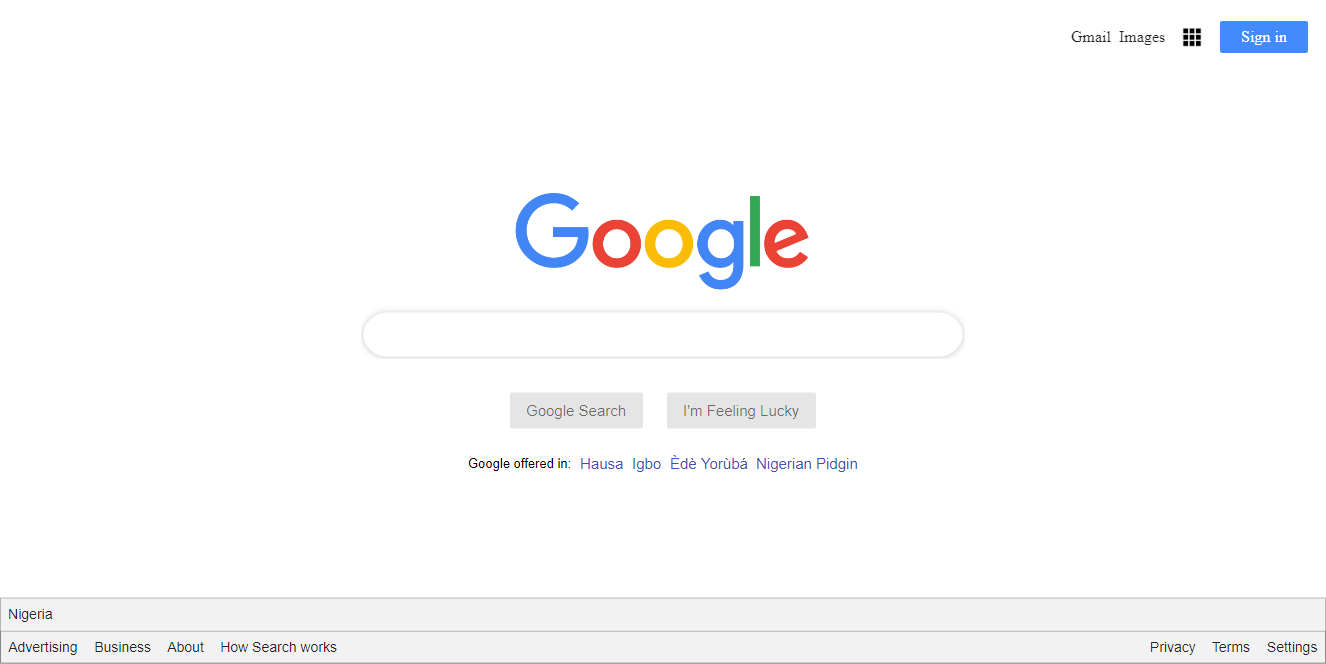
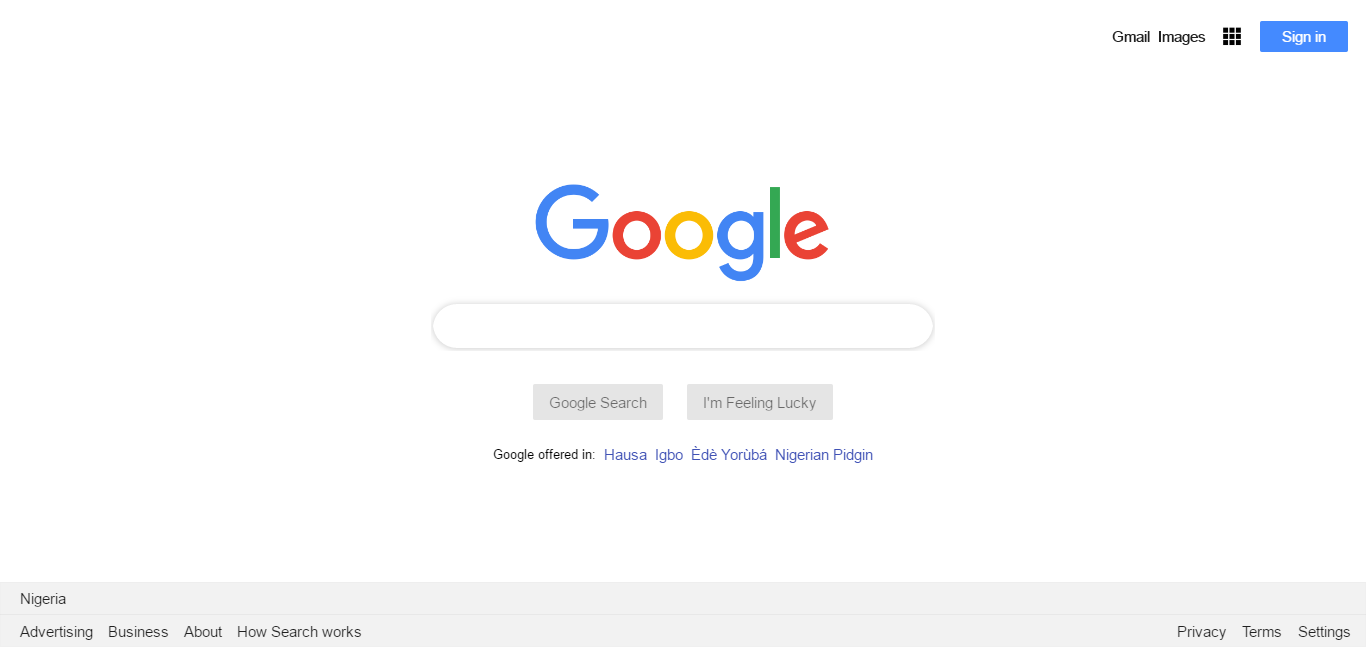
Merge branch 'master' of D:\second_website with conflicts.

diff --git a/lib/googleSearch.dart b/lib/googleSearch.dart
@@ -20,7 +20,7 @@ class GoogleSearch extends StatelessWidget {
             ),
             Flexible(
               child: Container(
-                width: 600,
+                width: 500,
                 decoration: BoxDecoration(
                   color: Colors.white,
                   borderRadius: BorderRadius.circular(24.0),
@@ -33,14 +33,17 @@ class GoogleSearch extends StatelessWidget {
                     )
                   ],
                 ),
-                child: TextField(
-                  cursorColor: Theme.of(context).primaryColor,
-                  decoration: InputDecoration(
-                    border: InputBorder.none,
-                    contentPadding: const EdgeInsets.symmetric(
-                        horizontal: 12.0, vertical: 13.0),
+                child: Padding(
+                  padding: const EdgeInsets.only(left: 8.0),
+                  child: TextField(
+                    cursorColor: Theme.of(context).primaryColor,
+                    decoration: InputDecoration(
+                      border: InputBorder.none,
+                      contentPadding: const EdgeInsets.symmetric(
+                          horizontal: 12.0, vertical: 13.0),
+                    ),
+                    maxLines: 1,
                   ),
-                  maxLines: 1,
                 ),
               ),
             ),
@@ -57,12 +60,12 @@ class GoogleSearch extends StatelessWidget {
                     elevation: 0.0,
                     color: Colors.black38.withOpacity(0.1),
                     onPressed: () {},
-                    child: new Text(
+                    child: Text(
                       "Google Search",
-                      style: new TextStyle(
+                      style: TextStyle(
                           fontSize: 15.0,
                           color: Colors.black54,
-                          fontFamily: 'Roboto-Light.ttf'),
+                          fontFamily: 'arial'),
                     ),
                   ),
                 ),
@@ -72,13 +75,13 @@ class GoogleSearch extends StatelessWidget {
                     elevation: 0.0,
                     color: Colors.black26.withOpacity(0.1),
                     onPressed: () {},
-                    child: new Text(
+                    child: Text(
                       "I'm Feeling Lucky",
-                      style: new TextStyle(
+                      style: TextStyle(
                           fontWeight: FontWeight.w200,
                           fontSize: 15.0,
                           color: Colors.black54,
-                          fontFamily: 'Roboto-Light.ttf'),
+                          fontFamily: 'arial'),
                     ),
                   ),
                 )
@@ -91,18 +94,18 @@ class GoogleSearch extends StatelessWidget {
                 Padding(
                   padding: const EdgeInsets.only(top: 20.0),
                   child: Text("Google offered in:",
-                      style: new TextStyle(
+                      style: TextStyle(
                           color: Colors.black,
                           fontSize: 13.0,
-                          fontFamily: 'Roboto-Light.ttf')),
+                          fontFamily: 'arial')),
                 ),
                 Padding(
                   padding: const EdgeInsets.only(left: 8.0, top: 20.0),
                   child: Text("Hausa",
-                      style: new TextStyle(
+                      style: TextStyle(
                           color: Colors.indigo,
                           fontSize: 15.0,
-                          fontFamily: 'Roboto-Light.ttf')),
+                          fontFamily: 'arial')),
                 ),
                 Padding(
                   padding: const EdgeInsets.only(
@@ -110,27 +113,27 @@ class GoogleSearch extends StatelessWidget {
                     top: 20.0,
                   ),
                   child: Text("Igbo",
-                      style: new TextStyle(
+                      style: TextStyle(
                           color: Colors.indigo,
                           fontSize: 15.0,
-                          fontFamily: 'Roboto-Light.ttf')),
+                          fontFamily: 'arial')),
                 ),
                 Padding(
                   padding: const EdgeInsets.only(left: 8.0, top: 20.0),
                   child: Text("Èdè Yorùbá",
-                      style: new TextStyle(
+                      style: TextStyle(
                           color: Colors.indigo,
                           fontSize: 15.0,
-                          fontFamily: 'Roboto-Light.ttf')),
+                          fontFamily: 'arial')),
                 ),
                 Padding(
                   padding: const EdgeInsets.only(left: 8.0, top: 20.0),
                   child: Text(
                     "Nigerian Pidgin",
-                    style: new TextStyle(
+                    style: TextStyle(
                         color: Colors.indigo,
                         fontSize: 15.0,
-                        fontFamily: 'Roboto-Light.ttf'),
+                        fontFamily: 'arial'),
                   ),
                 ),
               ],

diff --git a/lib/footerOptions.dart b/lib/footerOptions.dart
@@ -1,8 +1,4 @@
 import 'package:flutter_web/material.dart';
-import 'package:second_website/widgets/option-name.dart';
-import 'package:second_website/widgets/text.dart';
-
-import 'helpers/constants.dart';
 
 class FooterOptions extends StatelessWidget {
   @override
@@ -16,30 +12,86 @@ class FooterOptions extends StatelessWidget {
         mainAxisAlignment: MainAxisAlignment.start,
         children: [
           Flexible(
-            child: Row(
-              mainAxisAlignment: MainAxisAlignment.start,
-              children: [
-                GoogleText(optionName: footerCountryText),
-                const Spacer(),
-              ],
-            ),
-          ),
-          Flexible(
             child: Container(
-              decoration: BoxDecoration(
-                border: Border.all(color: Colors.black26, width: 0.1),
-              ),
               child: Row(
                 mainAxisAlignment: MainAxisAlignment.start,
                 children: [
-                  for (var option in googleFooterOptions)
-                    OptionWidget(
-                      optionName: option,
-                      actionOnClick: (option) async {
-                        print('Woohoo $option');
-                      },
+                  Padding(
+                    padding: const EdgeInsets.only(
+                      left: 20.0,
+                      top: 8,
                     ),
-                ]..insert(4, const Spacer()),
+                    child: Text(
+                      'Nigeria',
+                      style: TextStyle(fontSize: 15, fontFamily: 'arial'),
+                    ),
+                  ),
+                ],
+              ),
+            ),
+          ),
+          Divider(
+            color: Colors.black.withOpacity(0.1),
+          ),
+          Flexible(
+            child: Padding(
+              padding: const EdgeInsets.only(
+                left: 20.0,
+              ),
+              child: Container(
+                child: Row(
+                  mainAxisAlignment: MainAxisAlignment.start,
+                  children: [
+                    Container(
+                      child: Text(
+                        'Advertising',
+                        style: TextStyle(fontSize: 15, fontFamily: 'arial'),
+                      ),
+                    ),
+                    Container(
+                      margin: EdgeInsets.only(left: 15),
+                      child: Text(
+                        'Business',
+                        style: TextStyle(fontSize: 15, fontFamily: 'arial'),
+                      ),
+                    ),
+                    Container(
+                      margin: EdgeInsets.only(left: 15),
+                      child: Text(
+                        'About',
+                        style: TextStyle(fontSize: 15, fontFamily: 'arial'),
+                      ),
+                    ),
+                    Container(
+                      margin: EdgeInsets.only(left: 15),
+                      child: Text(
+                        'How Search works',
+                        style: TextStyle(fontSize: 15, fontFamily: 'arial'),
+                      ),
+                    ),
+                    Container(
+                      margin: EdgeInsets.only(left: 15),
+                      child: Text(
+                        'Privacy',
+                        style: TextStyle(fontSize: 15, fontFamily: 'arial'),
+                      ),
+                    ),
+                    Container(
+                      margin: EdgeInsets.only(left: 15),
+                      child: Text(
+                        'Terms',
+                        style: TextStyle(fontSize: 15, fontFamily: 'arial'),
+                      ),
+                    ),
+                    Container(
+                      margin: EdgeInsets.only(left: 15, right: 15),
+                      child: Text(
+                        'Settings',
+                        style: TextStyle(fontSize: 15, fontFamily: 'arial'),
+                      ),
+                    ),
+                  ]..insert(4, const Spacer()),
+                ),
               ),
             ),
           ),

diff --git a/lib/googleMenuOptions.dart b/lib/googleMenuOptions.dart
@@ -11,13 +11,18 @@ class GoogleMenuOptions extends StatelessWidget {
           children: <Widget>[
             Text(
               "Gmail",
-              style: new TextStyle(fontSize: 16, fontWeight: FontWeight.w300),
+              style: TextStyle(
+                  fontSize: 15,
+                  fontWeight: FontWeight.w300,
+                  fontFamily: 'arial'),
             ),
             Padding(
               padding: const EdgeInsets.all(8.0),
               child: Text("Images",
-                  style:
-                      new TextStyle(fontSize: 16, fontWeight: FontWeight.w300)),
+                  style: TextStyle(
+                      fontSize: 15,
+                      fontWeight: FontWeight.w300,
+                      fontFamily: 'arial')),
             ),
             Padding(
               padding: const EdgeInsets.all(8.0),
@@ -34,11 +39,12 @@ class GoogleMenuOptions extends StatelessWidget {
                 elevation: 0.0,
                 color: Colors.blueAccent,
                 onPressed: () {},
-                child: new Text(
+                child: Text(
                   'Sign in',
-                  style: new TextStyle(
+                  style: TextStyle(
+                      fontFamily: 'arial',
                       color: Colors.white,
-                      fontSize: 16,
+                      fontSize: 15,
                       fontWeight: FontWeight.w500),
                 ),
               ),

diff --git a/lib/main.dart b/lib/main.dart
@@ -19,3 +19,45 @@ class MyApp extends StatelessWidget {
   }
 }
 
+/*class MyHomePage extends StatefulWidget {
+  MyHomePage({Key key}) : super(key: key);
+
+  @override
+  _MyHomePageState createState() => _MyHomePageState();
+}
+
+class _MyHomePageState extends State<MyHomePage> {
+  //Begin....
+
+  @override
+  Widget build(BuildContext context) {
+    //Implement scaffold...
+
+    return Scaffold(
+      backgroundColor: Colors.white,
+      body: _baseBody(),
+    );
+  }
+
+  //Foundation widget......
+  Widget _baseBody() {
+    //Creates the base....
+
+    return Column(
+      children: [
+        Flexible(
+          flex: 1,
+          child: GoogleMenuOptions(),
+        ),
+        Flexible(
+          flex: 8,
+          child: GoogleSearch(),
+        ),
+        Flexible(
+          flex: 1,
+          child: FooterOptions(),
+        ),
+      ],
+    );
+  }
+}*/
